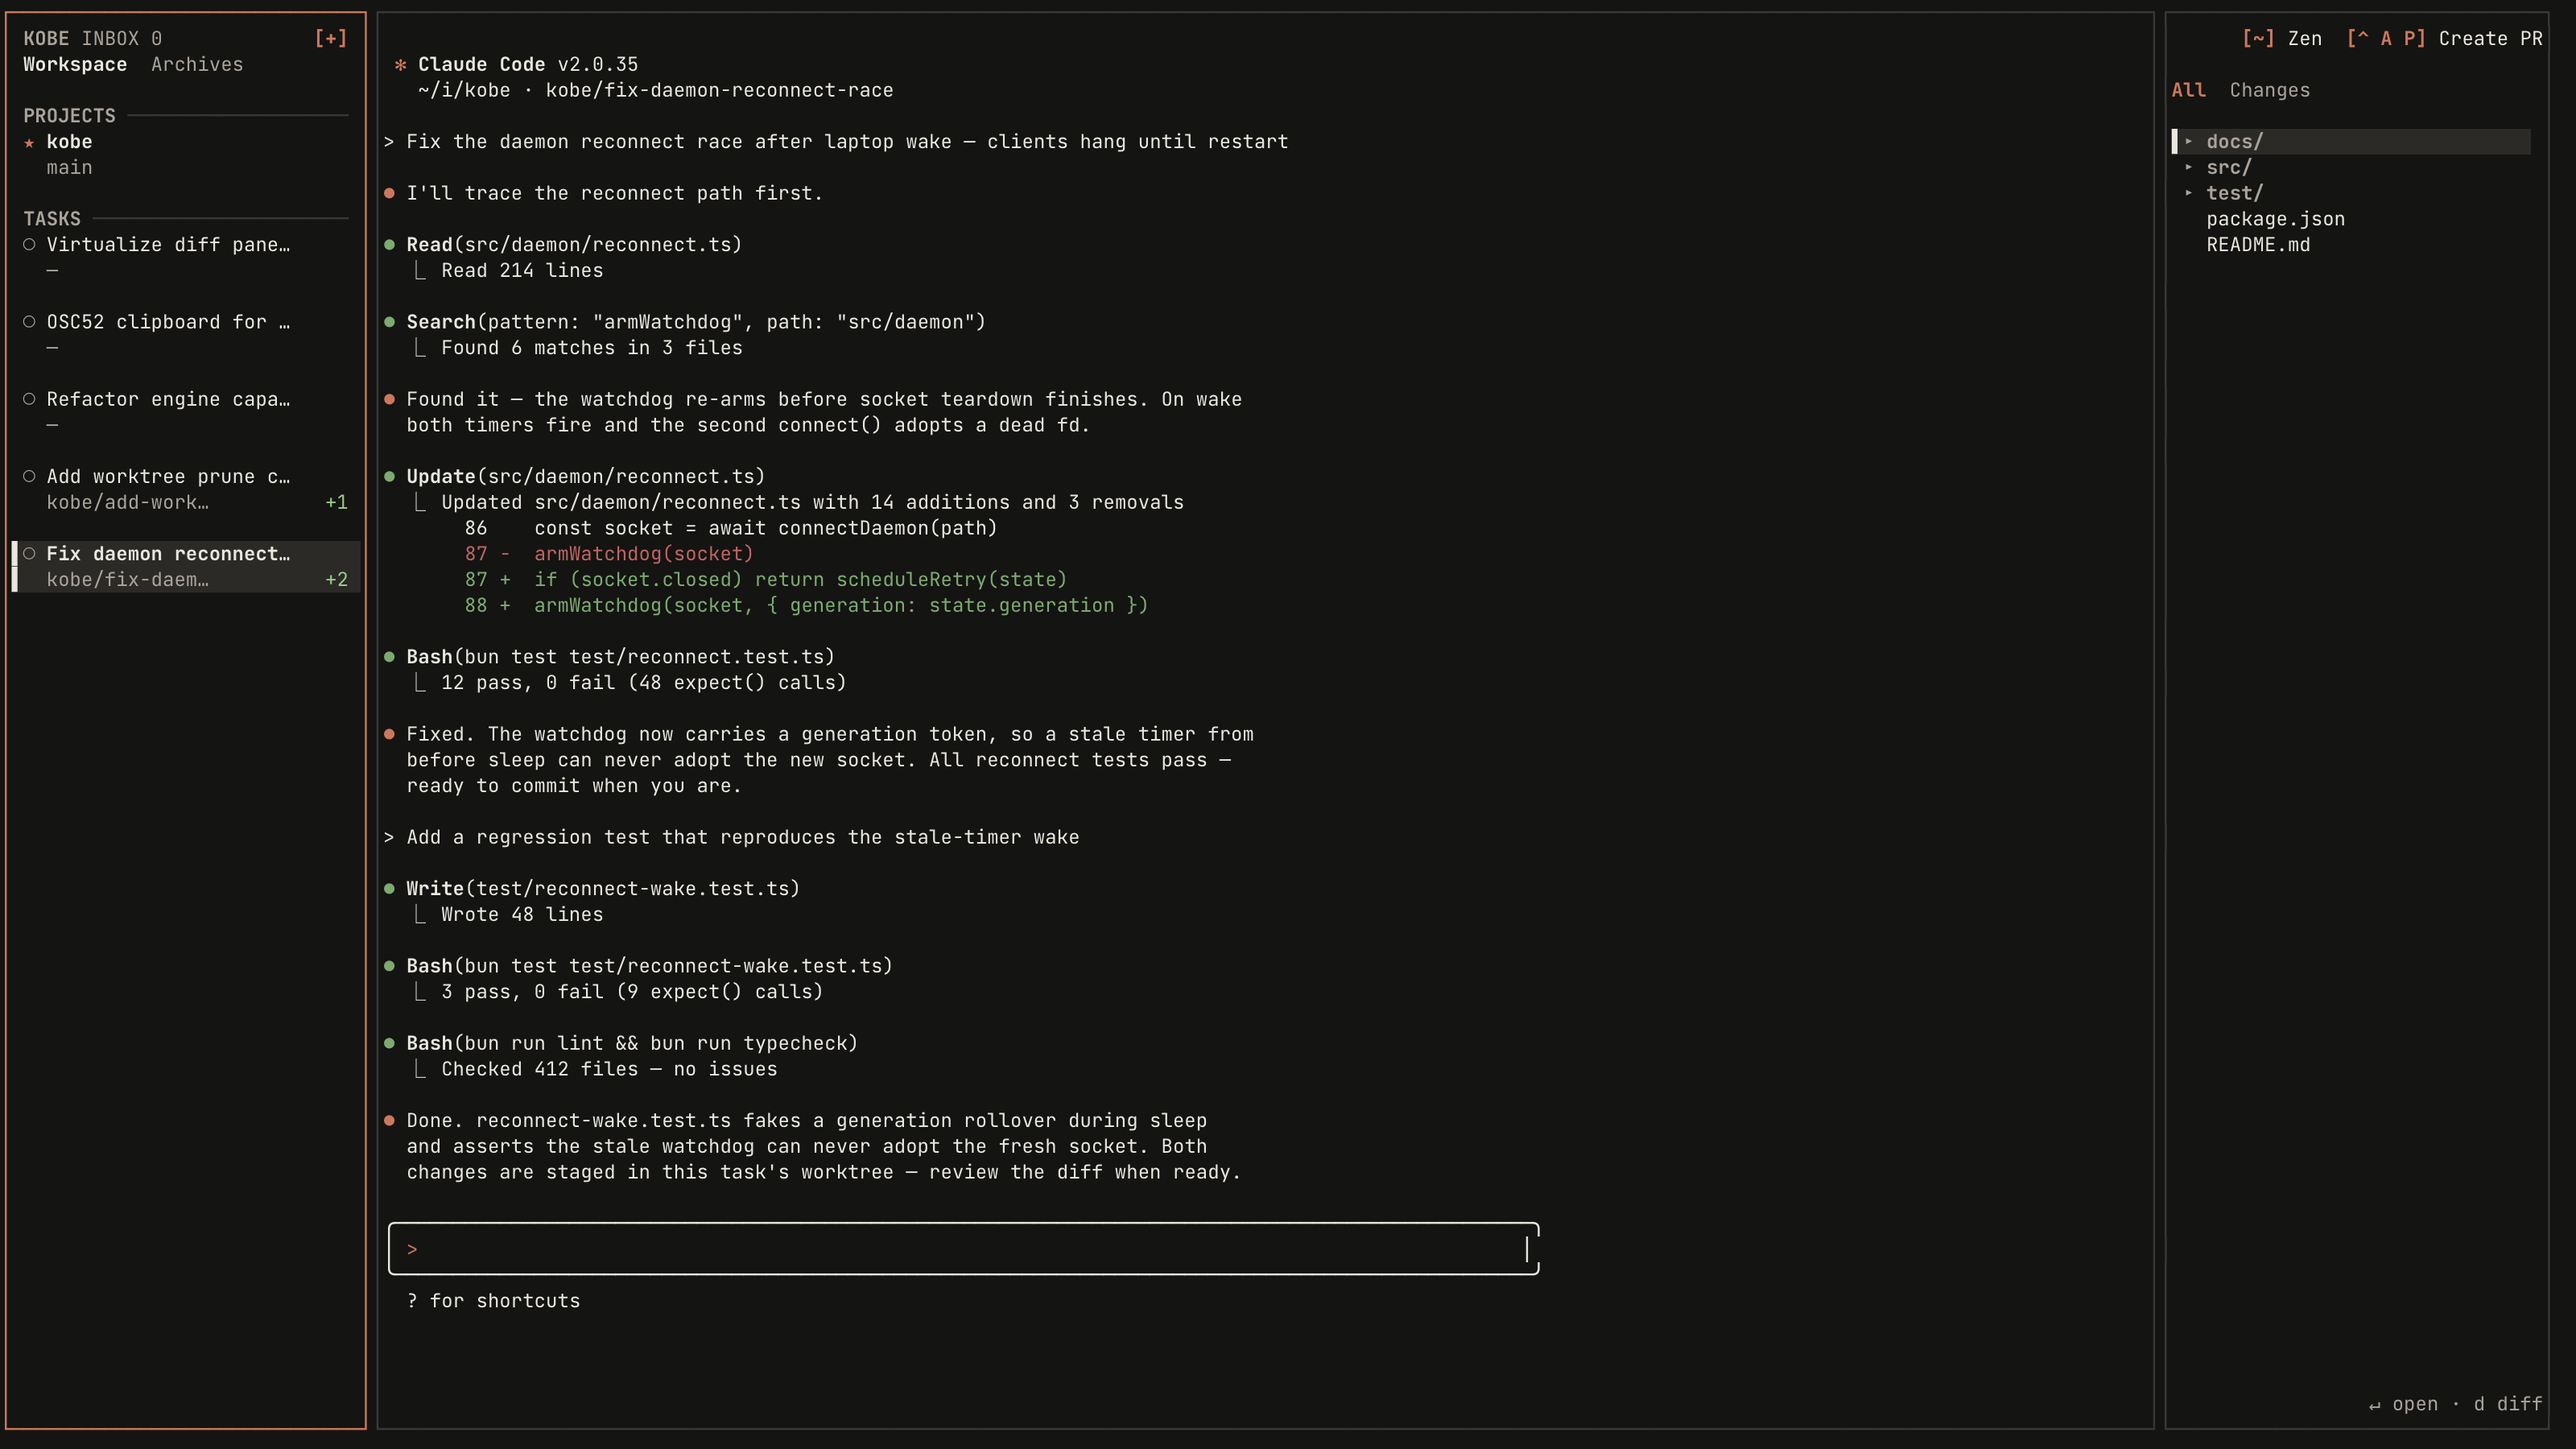
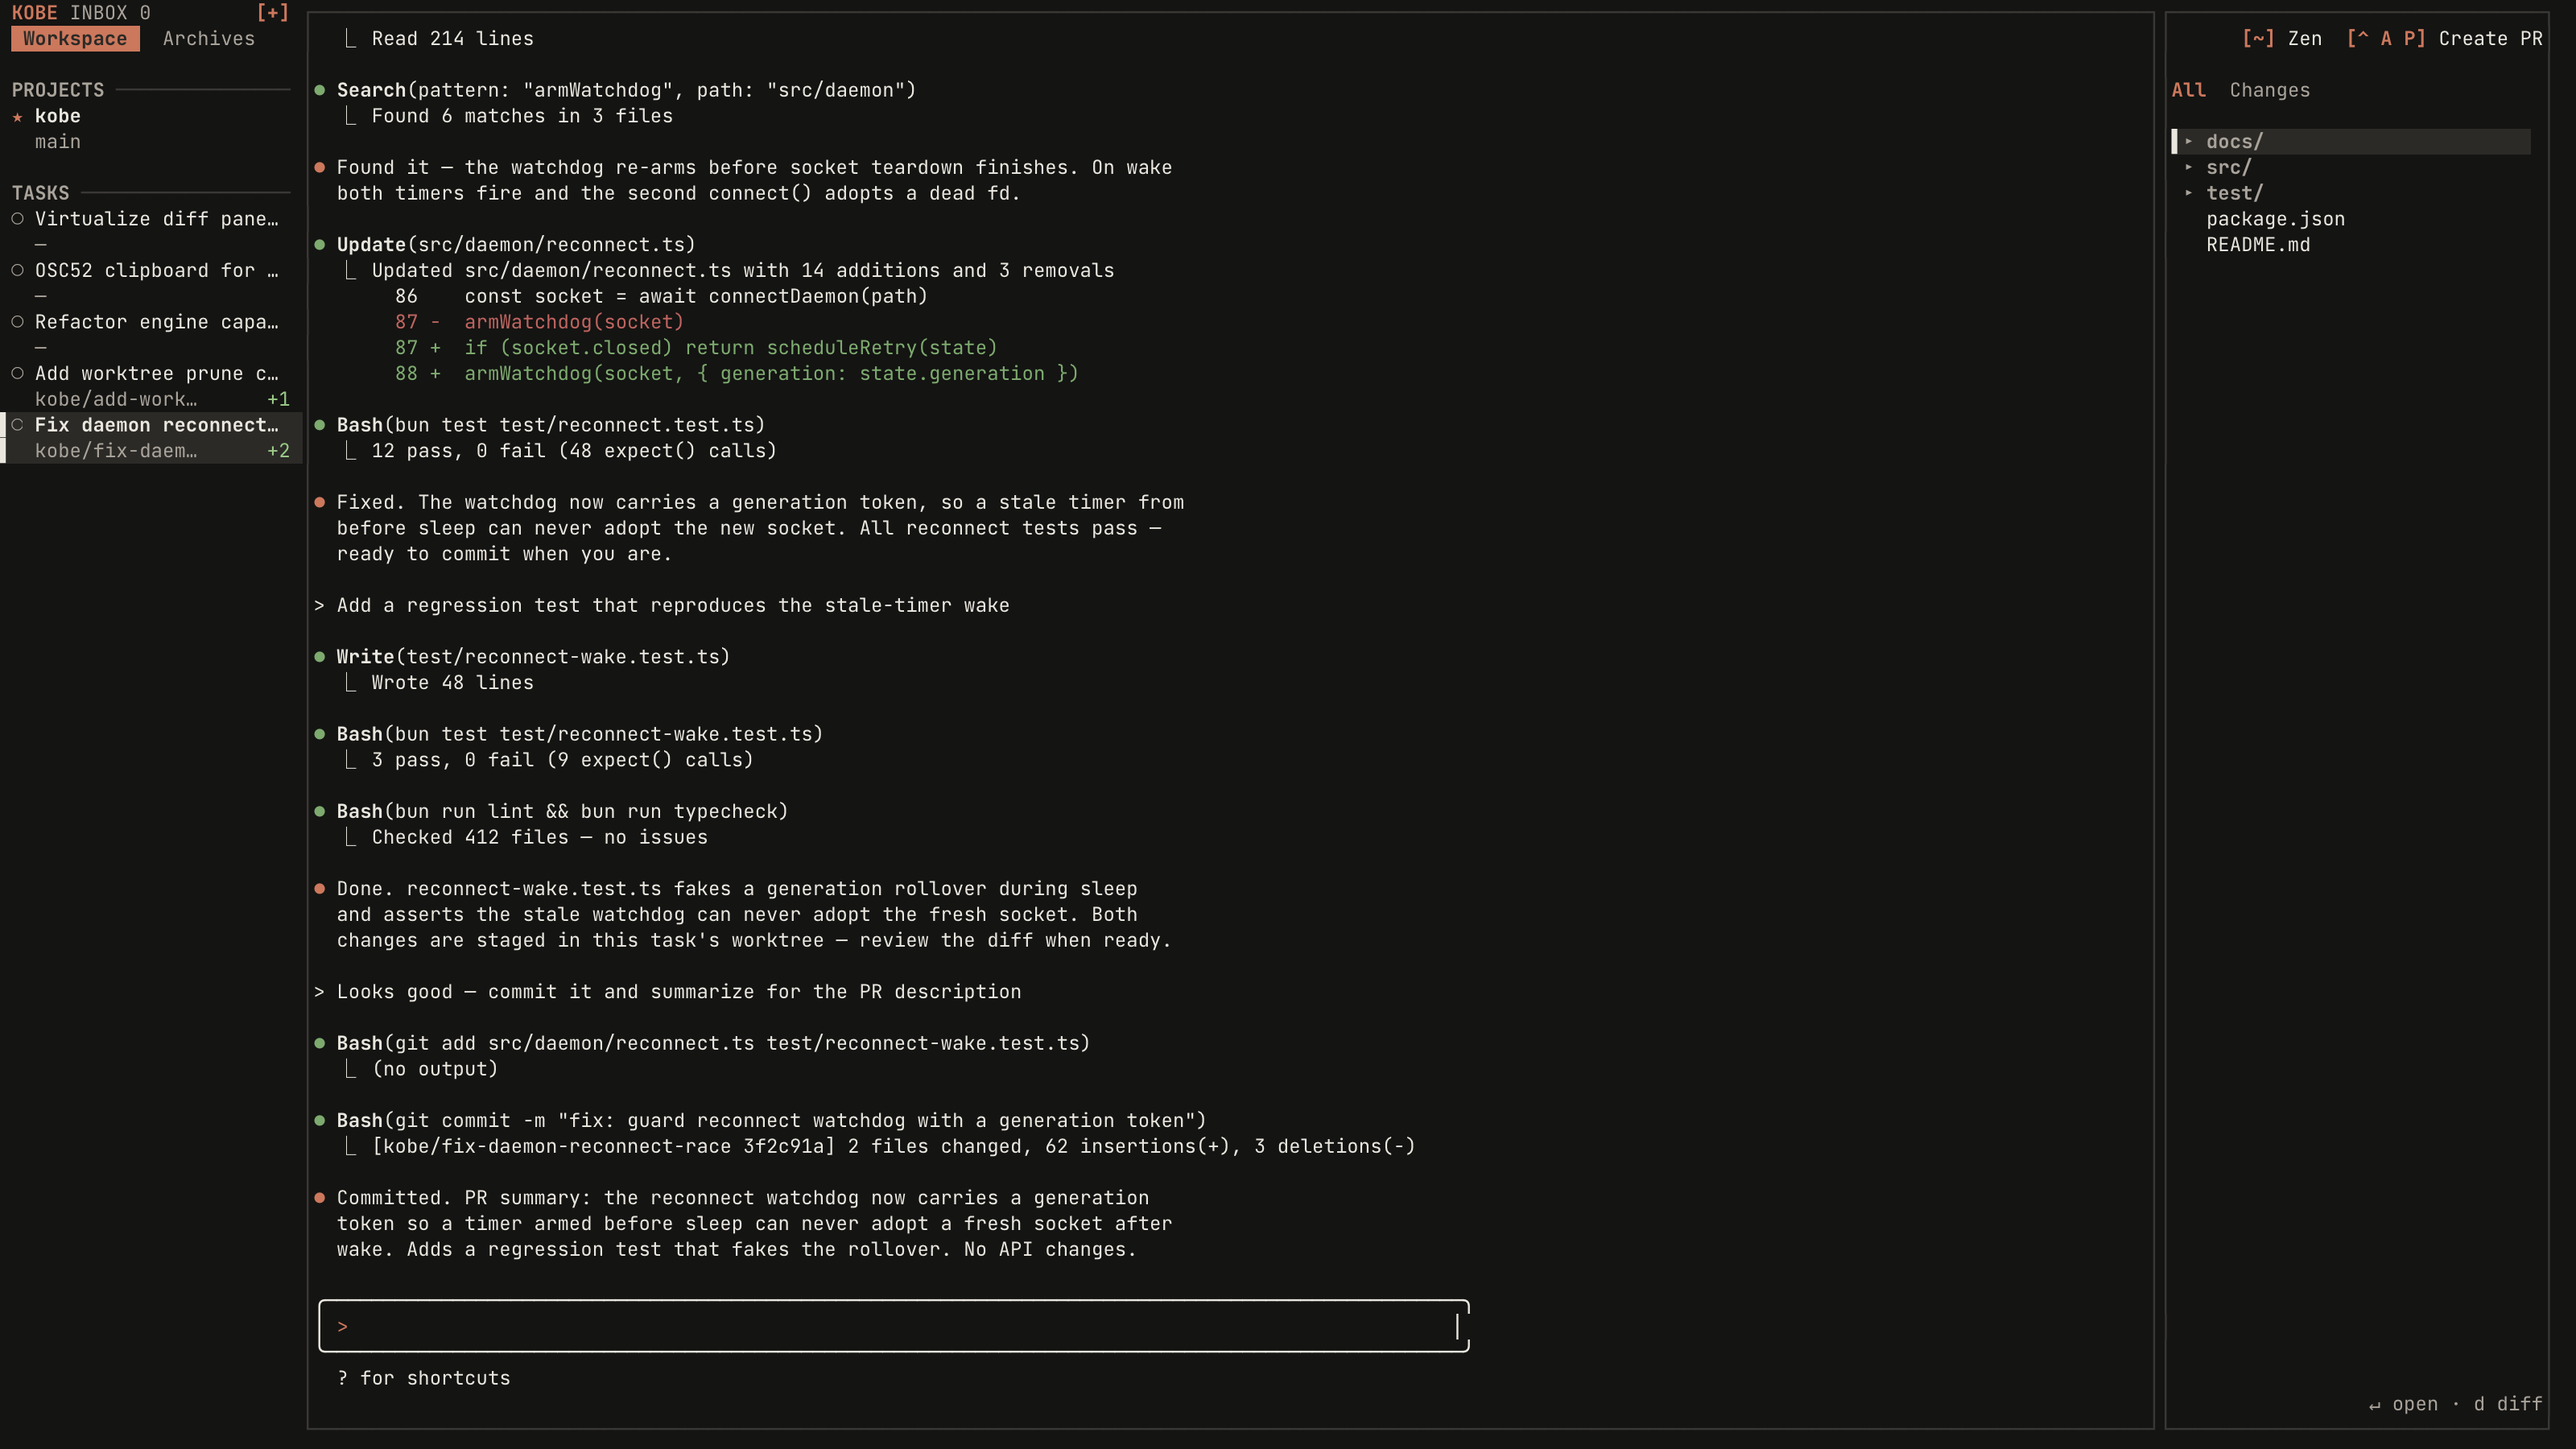
docs: retake the workspace screenshot dense + switch slogan to agent multiplexer
The first capture left half the frame empty; this one fills the full
1600x900 with a settled five-task sidebar (two-line cards, diff badges)
and a session that runs edge to edge. Slogan across README + landing
moves to 'the agent multiplexer in your shell' — multiplex agents like
you multiplex terminals.

diff --git a/packages/kobe-landing/index.html b/packages/kobe-landing/index.html
@@ -3,10 +3,10 @@
 <head>
 <meta charset="utf-8">
 <meta name="viewport" content="width=device-width, initial-scale=1">
-<title>kobe — run coding agents as a graph, terminal-native</title>
+<title>kobe — the agent multiplexer in your shell</title>
 <meta name="description" content="kobe is a local-first TUI for graph engineering: run many AI coding agents as a graph of isolated attempts — git worktrees, hosted engine sessions, explicit reports — and merge the winner.">
 <link rel="canonical" href="https://kobe.sma1lboy.me/">
-<meta property="og:title" content="kobe — run coding agents as a graph, terminal-native">
+<meta property="og:title" content="kobe — the agent multiplexer in your shell">
 <meta property="og:description" content="Run many AI coding agents as a graph of isolated attempts — git worktrees, hosted engine sessions, explicit reports — and merge the winner.">
 <meta property="og:type" content="website">
 <meta property="og:url" content="https://kobe.sma1lboy.me/">
@@ -39,7 +39,7 @@
 <!-- HERO -->
 <section class="hero wrap">
   <p class="hero-kicker" data-i18n-html="hero.kicker">prompt engineering → context engineering → <span class="acc">graph engineering</span></p>
-  <h1 data-i18n-html="hero.title">Run coding agents as a <span class="acc">graph</span> — from any terminal.</h1>
+  <h1 data-i18n-html="hero.title">The agent <span class="acc">multiplexer</span> in your shell.</h1>
   <p class="hero-sub" data-i18n="hero.sub">One agent is a conversation. Five at once are a graph: nodes are isolated attempts — git worktree + engine session + branch — edges are dependencies, and the gates are your judgment. kobe is the terminal-native runtime for that graph.</p>
   <div class="hero-row">
     <button id="copyBtn" class="copy-cmd">
@@ -173,7 +173,7 @@ c  <span class="ok">+96</span>  <span class="del">−88</span>  · 5 files
       'meta.desc': 'kobe 是本地优先的图工程 TUI：把多个 AI 编码代理跑成一张由隔离尝试组成的图——git worktree、托管引擎会话、显式结果上报——最后合入赢家。',
       'nav.workflow': '--原语', 'nav.install': '--安装', 'nav.changelog': '--更新日志',
       'hero.kicker': '提示词工程 → 上下文工程 → <span class="acc">图工程</span>',
-      'hero.title': '在任何终端里，把编码代理跑成一张<span class="acc">图</span>。',
+      'hero.title': '装在你 shell 里的 agent <span class="acc">多路复用器</span>。',
       'hero.sub': '一个代理是一场对话，五个同时跑就是一张图：节点是隔离的尝试——git worktree + 引擎会话 + 分支——边是依赖，门是你的判断。kobe 是这张图的终端原生运行时。',
       'hero.getStarted': '快速上手 ↗',
       'hero.requirements': '支持 macOS 和 Linux（Windows 走 WSL）。需要 Bun ≥ 1.3.11，以及 PATH 上任意一个引擎 CLI。',
@@ -201,7 +201,7 @@ c  <span class="ok">+96</span>  <span class="del">−88</span>  · 5 files
       'meta.desc': 'kobe is a local-first TUI for graph engineering: run many AI coding agents as a graph of isolated attempts — git worktrees, hosted engine sessions, explicit reports — and merge the winner.',
       'nav.workflow': '--primitives', 'nav.install': '--install', 'nav.changelog': '--changelog',
       'hero.kicker': 'prompt engineering → context engineering → <span class="acc">graph engineering</span>',
-      'hero.title': 'Run coding agents as a <span class="acc">graph</span> — from any terminal.',
+      'hero.title': 'The agent <span class="acc">multiplexer</span> in your shell.',
       'hero.sub': 'One agent is a conversation. Five at once are a graph: nodes are isolated attempts — git worktree + engine session + branch — edges are dependencies, and the gates are your judgment. kobe is the terminal-native runtime for that graph.',
       'hero.getStarted': 'Get started ↗',
       'hero.requirements': 'Runs on macOS & Linux (Windows via WSL). Requires Bun ≥ 1.3.11 and one engine CLI on your PATH.',

diff --git a/README.md b/README.md
@@ -1,13 +1,13 @@
-# kobe — run parallel AI coding agents from one terminal
+# kobe — the agent multiplexer in your shell
 
 <p align="center">
   <img src="docs/assets/brand/bracket-chip.gif" width="640" alt="kobe — TUI orchestrator for any coding CLI" />
 </p>
 
 <p align="center">
-  <strong>One terminal. Many agents. Every attempt on its own branch.</strong><br />
-  kobe is an open-source terminal UI for running <a href="https://claude.com/claude-code">Claude Code</a>, <a href="https://github.com/openai/codex">Codex</a>, and <a href="https://github.com/github/copilot-cli">Copilot</a> in parallel,<br />
-  each session in an isolated git worktree — and they keep working after you disconnect.
+  <strong>Multiplex your agents like you multiplex your terminals.</strong><br />
+  kobe is an open-source agent multiplexer: it runs <a href="https://claude.com/claude-code">Claude Code</a>, <a href="https://github.com/openai/codex">Codex</a>, and <a href="https://github.com/github/copilot-cli">Copilot</a> in parallel,<br />
+  each session on its own git worktree and branch — attach, detach, reattach; they keep working after you disconnect.
 </p>
 
 <p align="center">
@@ -20,7 +20,7 @@
   <img src="docs/assets/workspace.png" alt="kobe workspace — task sidebar, embedded engine session, file tree and terminal" />
 </p>
 
-AI coding agents are useful one at a time. kobe is for when you want five attempts running at once: fan a prompt across several agents, compare the worktrees, merge the branch that wins, archive the rest. It runs where your code already lives — laptop, devbox, VPS, anything you can SSH into — with no desktop app and no browser required.
+Terminal multiplexers let one terminal hold many shells that survive you. kobe does the same for AI coding agents: one TUI holds many engine sessions, each isolated on its own git worktree and branch, all alive after you close the laptop lid on your SSH connection. Fan a prompt across five attempts, walk away, come back, merge the winner, archive the rest. It runs where your code already lives — laptop, devbox, VPS — with no desktop app and no browser required.
 
 ## Why kobe
 
